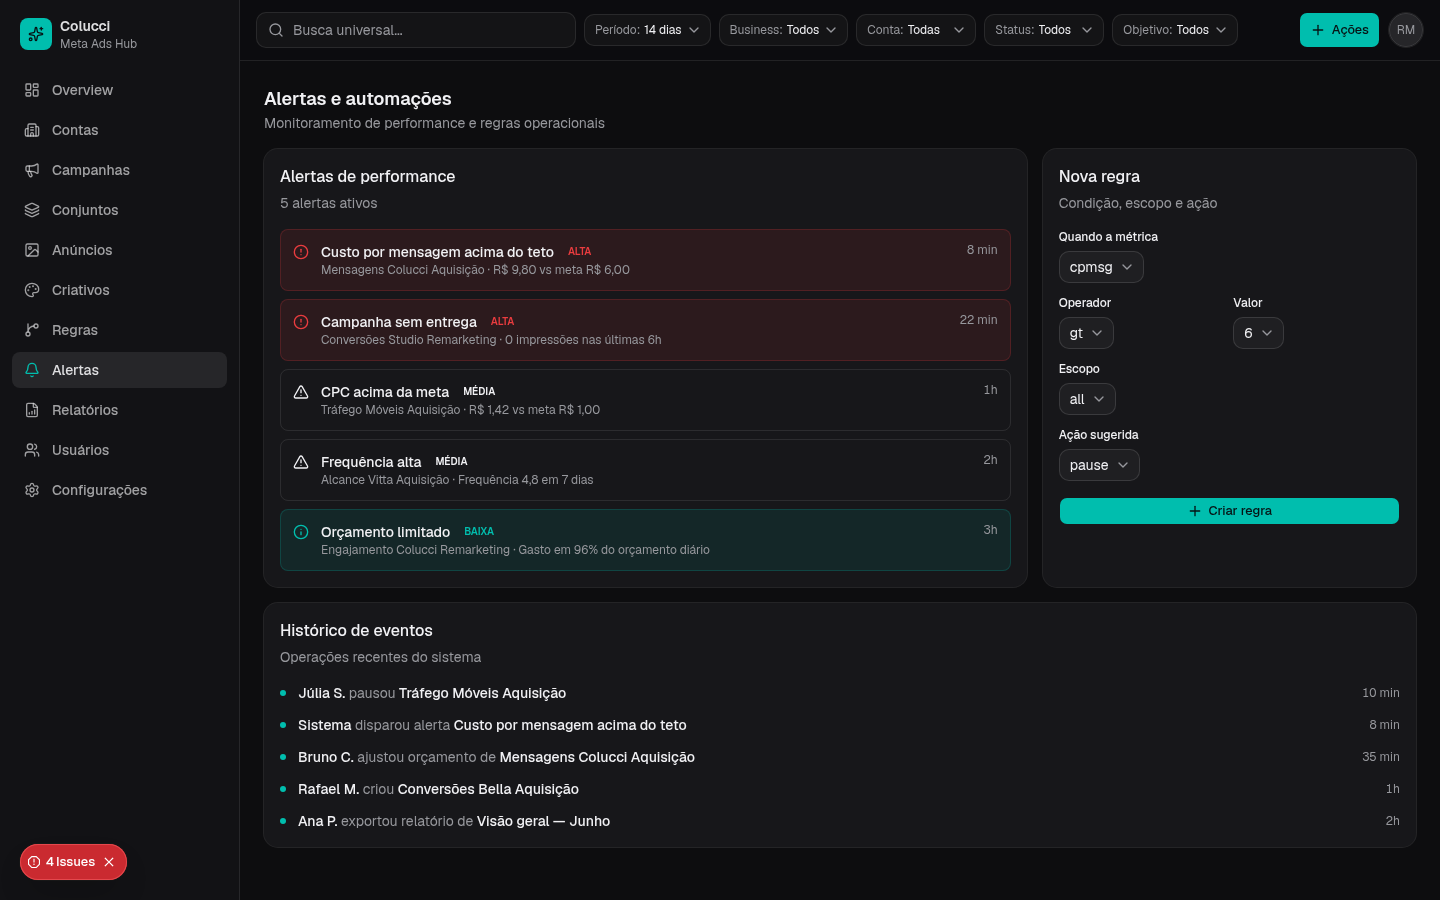
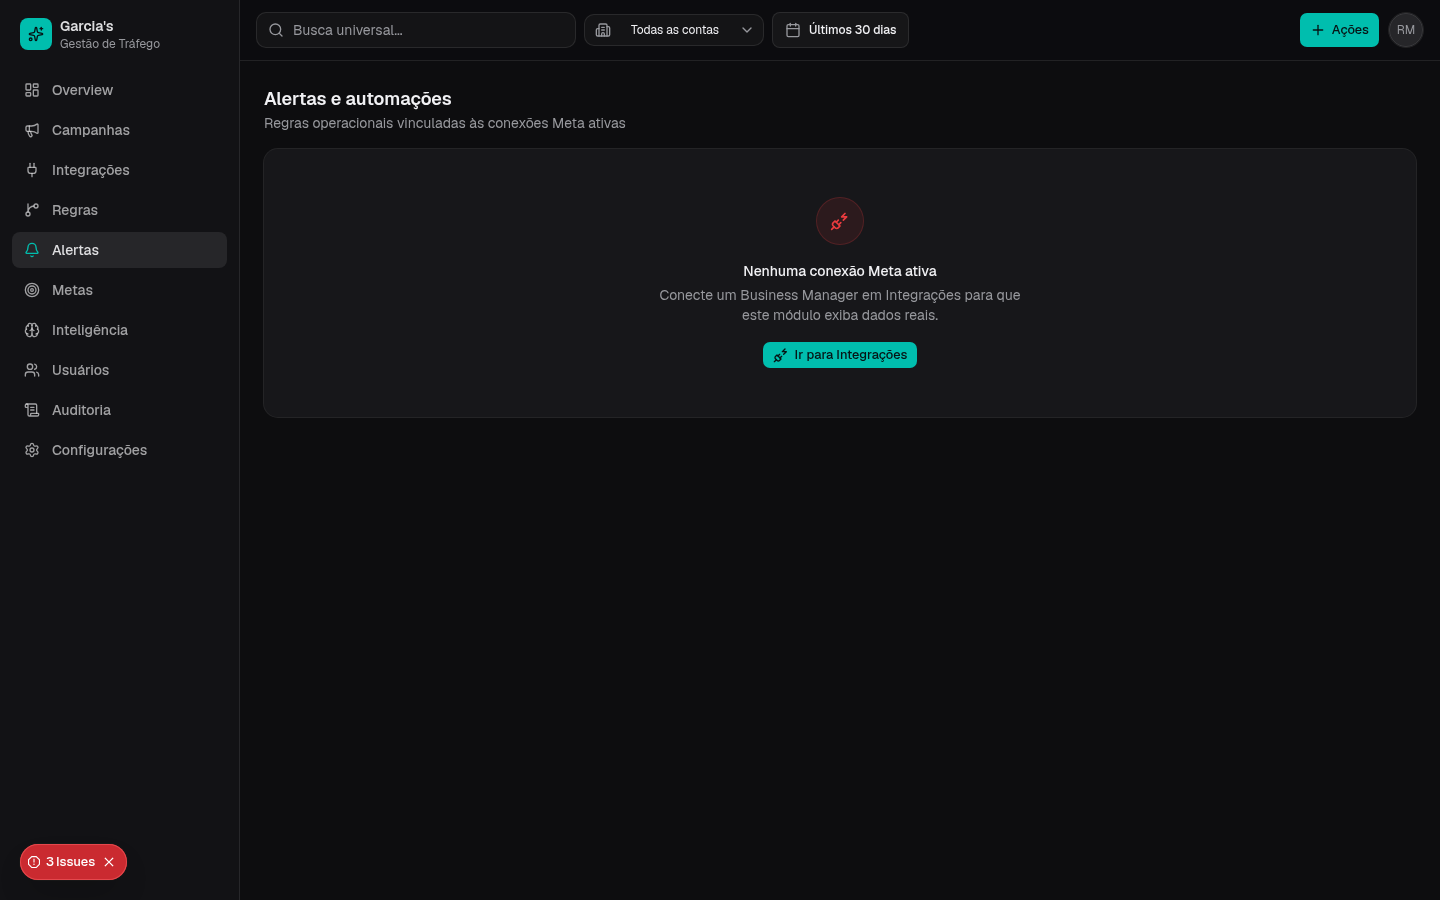
feat: enhance dashboard components and add computed alerts\n\nAdded ComputedAlerts to alerts section, refactored date filter and goals section buttons, updated header dropdowns, and introduced useState for connection syncing in integrations section.

diff --git a/components/dashboard/integrations-section.tsx b/components/dashboard/integrations-section.tsx
@@ -1,5 +1,6 @@
 "use client"
 
+import { useState } from "react"
 import {
   Plug, CheckCircle2, AlertTriangle, XCircle, RefreshCw, Database, ArrowRight, Loader2, KeyRound,
 } from "lucide-react"
@@ -10,7 +11,9 @@ import { Tabs, TabsList, TabsTrigger, TabsContent } from "@/components/ui/tabs"
 import { cn } from "@/lib/utils"
 import { fmtCurrency } from "@/lib/format"
 import { useStatus, useAccounts } from "@/lib/use-meta"
-import { entities, syncJobs, metricDefs, messageMetrics, type JobStatus } from "@/lib/mock-data"
+import { useConnections, testConnection } from "@/lib/use-store"
+import { CONNECTION_STATUS, TONE_CLS } from "@/lib/connection-status"
+import { entities, metricDefs, messageMetrics } from "@/lib/mock-data"
 
 const REQUIRED_SCOPES = ["ads_read", "ads_management", "business_management"]
 
@@ -18,14 +21,6 @@ function accountStatusCfg(status: number) {
   if (status === 1) return { label: "Ativa", cls: "text-success", bg: "border-success/20 bg-success/10" }
   if (status === 2 || status === 101) return { label: "Desativada", cls: "text-destructive", bg: "border-destructive/20 bg-destructive/10" }
   return { label: "Pendente", cls: "text-warning", bg: "border-warning/20 bg-warning/10" }
-}
-
-const jobCfg: Record<JobStatus, { label: string; cls: string }> = {
-  queued: { label: "Em fila", cls: "bg-secondary text-secondary-foreground" },
-  processing: { label: "Processando", cls: "bg-primary/15 text-primary" },
-  success: { label: "Sucesso", cls: "bg-success/15 text-success" },
-  partial: { label: "Falha parcial", cls: "bg-warning/15 text-warning" },
-  failed: { label: "Falha total", cls: "bg-destructive/15 text-destructive" },
 }
 
 function Connections() {
@@ -201,50 +196,81 @@ function DataModel() {
   )
 }
 
+function relativeTime(iso: string | null) {
+  if (!iso) return "Nunca"
+  const diff = Date.now() - new Date(iso).getTime()
+  const min = Math.floor(diff / 60000)
+  if (min < 1) return "Agora"
+  if (min < 60) return `há ${min} min`
+  const h = Math.floor(min / 60)
+  if (h < 24) return `há ${h}h`
+  return `há ${Math.floor(h / 24)} dia(s)`
+}
+
 function SyncJobs() {
+  const { connections, isLoading } = useConnections()
+  const [syncing, setSyncing] = useState<string | null>(null)
+
+  const sync = async (id: string) => {
+    setSyncing(id)
+    try {
+      await testConnection(id)
+    } finally {
+      setSyncing(null)
+    }
+  }
+
   return (
     <Card className="overflow-hidden p-0">
-      <CardHeader className="flex-row items-center justify-between p-4">
-        <div>
-          <CardTitle className="text-base">Jobs de sincronização</CardTitle>
-          <CardDescription>Histórico de coleta por conta</CardDescription>
-        </div>
-        <Button size="sm" variant="outline" className="gap-1.5"><RefreshCw className="size-4" /> Sincronizar agora</Button>
+      <CardHeader className="p-4">
+        <CardTitle className="text-base">Status de sincronização</CardTitle>
+        <CardDescription>Última coleta e verificação por conexão Meta</CardDescription>
       </CardHeader>
       <CardContent className="p-0">
-        <div className="overflow-x-auto">
-          <Table>
-            <TableHeader>
-              <TableRow className="hover:bg-transparent">
-                <TableHead>Job</TableHead>
-                <TableHead>Conta</TableHead>
-                <TableHead>Janela</TableHead>
-                <TableHead className="text-right">Linhas</TableHead>
-                <TableHead className="text-right">Duração</TableHead>
-                <TableHead>Status</TableHead>
-                <TableHead>Concluído</TableHead>
-              </TableRow>
-            </TableHeader>
-            <TableBody>
-              {syncJobs.map((j) => {
-                const cfg = jobCfg[j.status]
-                return (
-                  <TableRow key={j.id}>
-                    <TableCell className="font-mono text-xs text-muted-foreground">{j.id}</TableCell>
-                    <TableCell className="font-medium text-foreground">{j.account}</TableCell>
-                    <TableCell className="text-muted-foreground">{j.window}</TableCell>
-                    <TableCell className="text-right font-mono tabular-nums text-muted-foreground">{j.rows.toLocaleString("pt-BR")}</TableCell>
-                    <TableCell className="text-right font-mono tabular-nums text-muted-foreground">{j.duration}</TableCell>
-                    <TableCell>
-                      <span className={cn("inline-block rounded px-2 py-0.5 text-xs font-medium", cfg.cls)}>{cfg.label}</span>
-                    </TableCell>
-                    <TableCell className="text-muted-foreground tabular-nums">{j.finished}</TableCell>
-                  </TableRow>
-                )
-              })}
-            </TableBody>
-          </Table>
-        </div>
+        {isLoading ? (
+          <div className="flex items-center justify-center gap-2 p-8 text-sm text-muted-foreground">
+            <Loader2 className="size-4 animate-spin" /> Carregando conexões...
+          </div>
+        ) : connections.length === 0 ? (
+          <p className="p-8 text-center text-sm text-muted-foreground">Nenhuma conexão cadastrada.</p>
+        ) : (
+          <div className="overflow-x-auto">
+            <Table>
+              <TableHeader>
+                <TableRow className="hover:bg-transparent">
+                  <TableHead>Conexão</TableHead>
+                  <TableHead>Status</TableHead>
+                  <TableHead>Última sincronização</TableHead>
+                  <TableHead>Última verificação</TableHead>
+                  <TableHead className="text-right">Ação</TableHead>
+                </TableRow>
+              </TableHeader>
+              <TableBody>
+                {connections.map((c) => {
+                  const cfg = CONNECTION_STATUS[c.status] ?? CONNECTION_STATUS.connected
+                  return (
+                    <TableRow key={c.id}>
+                      <TableCell className="font-medium text-foreground">{c.name}</TableCell>
+                      <TableCell>
+                        <span className={cn("inline-flex items-center gap-1 rounded-md border px-2 py-0.5 text-xs font-medium", TONE_CLS[cfg.tone])}>
+                          {cfg.label}
+                        </span>
+                      </TableCell>
+                      <TableCell className="text-muted-foreground tabular-nums">{relativeTime(c.last_sync_at)}</TableCell>
+                      <TableCell className="text-muted-foreground tabular-nums">{relativeTime(c.last_test_at)}</TableCell>
+                      <TableCell className="text-right">
+                        <Button size="sm" variant="outline" className="gap-1.5" onClick={() => sync(c.id)} disabled={syncing === c.id}>
+                          {syncing === c.id ? <Loader2 className="size-4 animate-spin" /> : <RefreshCw className="size-4" />}
+                          Sincronizar
+                        </Button>
+                      </TableCell>
+                    </TableRow>
+                  )
+                })}
+              </TableBody>
+            </Table>
+          </div>
+        )}
       </CardContent>
     </Card>
   )

diff --git a/components/dashboard/header.tsx b/components/dashboard/header.tsx
@@ -53,11 +53,9 @@ export function Header({ onToggleSidebar }: { onToggleSidebar: () => void }) {
 
         <div className="ml-auto flex items-center gap-2">
           <DropdownMenu>
-            <DropdownMenuTrigger asChild>
-              <Button size="sm" className="h-9 gap-1.5">
-                <Plus className="size-4" />
-                <span className="hidden sm:inline">Ações</span>
-              </Button>
+            <DropdownMenuTrigger render={<Button size="sm" className="h-9 gap-1.5" />}>
+              <Plus className="size-4" />
+              <span className="hidden sm:inline">Ações</span>
             </DropdownMenuTrigger>
             <DropdownMenuContent align="end">
               <DropdownMenuItem>
@@ -76,12 +74,13 @@ export function Header({ onToggleSidebar }: { onToggleSidebar: () => void }) {
           </DropdownMenu>
 
           <DropdownMenu>
-            <DropdownMenuTrigger asChild>
-              <button aria-label="Menu da conta" className="rounded-full outline-none ring-offset-background focus-visible:ring-2 focus-visible:ring-ring">
-                <Avatar className="size-9 border border-border">
-                  <AvatarFallback className="bg-secondary text-xs">RM</AvatarFallback>
-                </Avatar>
-              </button>
+            <DropdownMenuTrigger
+              aria-label="Menu da conta"
+              className="rounded-full outline-none ring-offset-background focus-visible:ring-2 focus-visible:ring-ring"
+            >
+              <Avatar className="size-9 border border-border">
+                <AvatarFallback className="bg-secondary text-xs">RM</AvatarFallback>
+              </Avatar>
             </DropdownMenuTrigger>
             <DropdownMenuContent align="end">
               <DropdownMenuItem>

diff --git a/components/dashboard/users-section.tsx b/components/dashboard/users-section.tsx
@@ -82,8 +82,8 @@ export function UsersSection() {
           <p className="text-sm text-muted-foreground">Gerencie acessos por conta e por perfil</p>
         </div>
         <Dialog open={open} onOpenChange={setOpen}>
-          <DialogTrigger asChild>
-            <Button size="sm" className="gap-1.5"><UserPlus className="size-4" /> Convidar usuário</Button>
+          <DialogTrigger render={<Button size="sm" className="gap-1.5" />}>
+            <UserPlus className="size-4" /> Convidar usuário
           </DialogTrigger>
           <DialogContent>
             <DialogHeader>
@@ -192,10 +192,10 @@ export function UsersSection() {
                     </TableCell>
                     <TableCell className="text-right">
                       <DropdownMenu>
-                        <DropdownMenuTrigger asChild>
-                          <Button variant="ghost" size="icon" className="size-7" aria-label={`Ações de ${u.name}`}>
-                            <MoreHorizontal className="size-4" />
-                          </Button>
+                        <DropdownMenuTrigger
+                          render={<Button variant="ghost" size="icon" className="size-7" aria-label={`Ações de ${u.name}`} />}
+                        >
+                          <MoreHorizontal className="size-4" />
                         </DropdownMenuTrigger>
                         <DropdownMenuContent align="end">
                           <DropdownMenuItem

diff --git a/components/dashboard/date-filter.tsx b/components/dashboard/date-filter.tsx
@@ -27,16 +27,15 @@ export function DateFilter() {
 
   return (
     <Popover open={open} onOpenChange={setOpen}>
-      <PopoverTrigger asChild>
-        <Button
-          variant="outline"
-          size="sm"
-          aria-label="Selecionar período"
-          className="h-9 gap-2 border-border bg-secondary/40"
-        >
-          <Calendar className="size-4 text-muted-foreground" />
-          <span className="text-xs font-medium">{presetLabel(range)}</span>
-        </Button>
+      <PopoverTrigger
+        aria-label="Selecionar período"
+        className={cn(
+          "inline-flex h-9 items-center gap-2 rounded-md border border-border bg-secondary/40 px-3 text-xs font-medium text-foreground transition-colors hover:bg-secondary",
+          "focus-visible:outline-none focus-visible:ring-2 focus-visible:ring-ring",
+        )}
+      >
+        <Calendar className="size-4 text-muted-foreground" />
+        <span>{presetLabel(range)}</span>
       </PopoverTrigger>
       <PopoverContent align="end" className="w-72 p-0">
         <div className="p-2">

diff --git a/components/dashboard/new-campaign-modal.tsx b/components/dashboard/new-campaign-modal.tsx
@@ -38,10 +38,8 @@ export function NewCampaignModal() {
 
   return (
     <Dialog open={open} onOpenChange={setOpen}>
-      <DialogTrigger asChild>
-        <Button size="sm" className="gap-1.5">
-          <Plus className="size-4" /> Nova campanha
-        </Button>
+      <DialogTrigger render={<Button size="sm" className="gap-1.5" />}>
+        <Plus className="size-4" /> Nova campanha
       </DialogTrigger>
       <DialogContent className="max-w-2xl">
         <DialogHeader>

diff --git a/components/dashboard/goals-section.tsx b/components/dashboard/goals-section.tsx
@@ -56,8 +56,8 @@ export function GoalsSection() {
 
   const dialog = (
     <Dialog open={open} onOpenChange={setOpen}>
-      <DialogTrigger asChild>
-        <Button size="sm" className="gap-1.5"><Plus className="size-4" /> Nova meta</Button>
+      <DialogTrigger render={<Button size="sm" className="gap-1.5" />}>
+        <Plus className="size-4" /> Nova meta
       </DialogTrigger>
       <DialogContent>
         <DialogHeader>

diff --git a/components/dashboard/alerts-section.tsx b/components/dashboard/alerts-section.tsx
@@ -268,6 +268,8 @@ function RulesInner() {
         </Card>
       </div>
 
+      <ComputedAlerts rules={rules} />
+
       {/* Histórico real (auditoria) */}
       <Card>
         <CardHeader>
